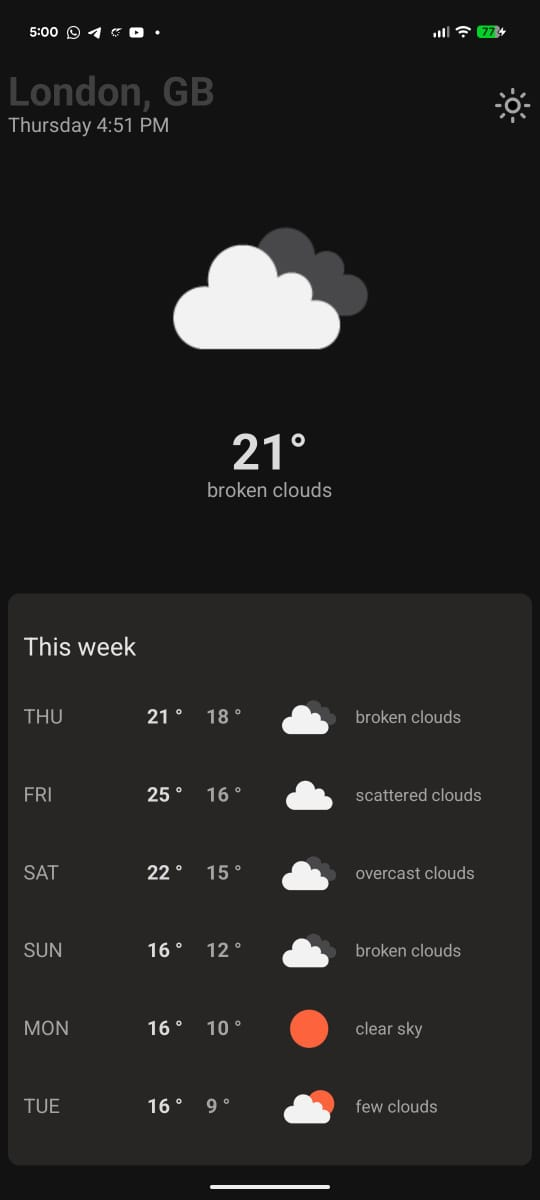
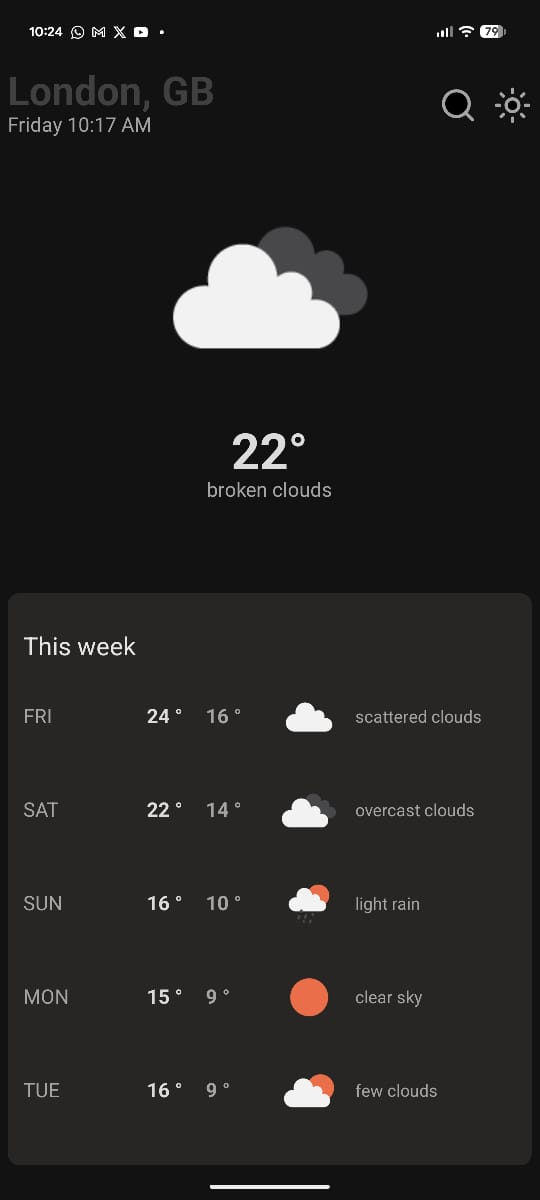
Readme updated

diff --git a/app/index.tsx b/app/index.tsx
@@ -6,7 +6,7 @@ import LoadingScreen from "@/components/shared/LoadingScreen";
 import { WeatherHeader } from "@/components/shared/WeatherHeader";
 import { WeeklyForecast } from "@/components/shared/WeeklyForecast";
 
-import NoDataAvailable from "@/components/shared/NoDataAvailableScreen";
+import NoDataAvailable from "@/components/shared/NoDataAvailableBottomSheet";
 import { useWeather } from "@/hooks/useWeather";
 import { useWeatherStore } from "@/store/store";
 import * as Haptics from "expo-haptics";

diff --git a/README.md b/README.md
@@ -17,6 +17,9 @@ A minimal weather app built with Expo that requests your location, fetches the c
 - **Persistence**: Zustand + AsyncStorage stores last weather and settings
 - **Theming**: light/dark toggle, system-aware
 - **UI/Platform**: GlueStack UI v3, Expo SDK 54
+- **Bottom sheet search**: overlay search UI for manual city lookup
+- **Header search toggle with haptics**: quick open/close of search
+- **Empty state UX**: FlatList shows info icon + Search CTA when empty
 
 ## Screenshots
 
@@ -35,6 +38,9 @@ A minimal weather app built with Expo that requests your location, fetches the c
 - Zustand + @react-native-async-storage/async-storage
 - Expo Location
 - Axios
+- @gorhom/bottom-sheet (Reanimated v4)
+- react-native-gesture-handler
+- react-native-reanimated
 
 ## How it works
 
@@ -46,6 +52,13 @@ A minimal weather app built with Expo that requests your location, fetches the c
   - Forecast staleTime: 30 minutes
 - Last successful data is persisted, so you see previous results immediately on reopen while freshness checks run.
 - Theme can follow system or be toggled to light/dark.
+
+### Search & Empty States
+
+- The header search button toggles a bottom sheet overlay (NoDataAvailable).
+- On successful search, the sheet closes and updates coordinates.
+- On failure, a GlueStack Toast appears with the error message.
+- Weekly forecast uses FlatList; when empty it shows an info icon and a Search button.
 
 ## OpenWeather API Key
 
